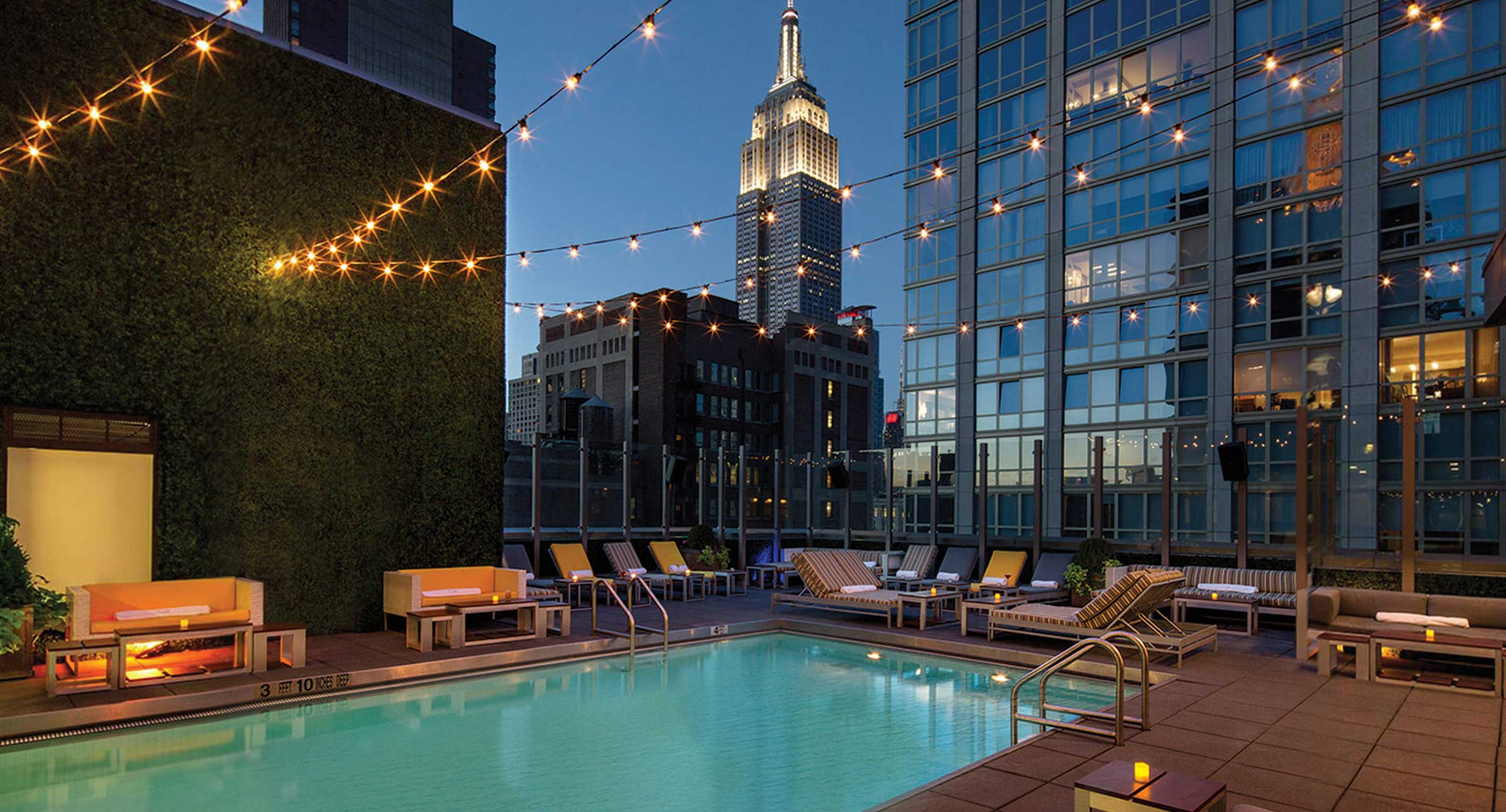
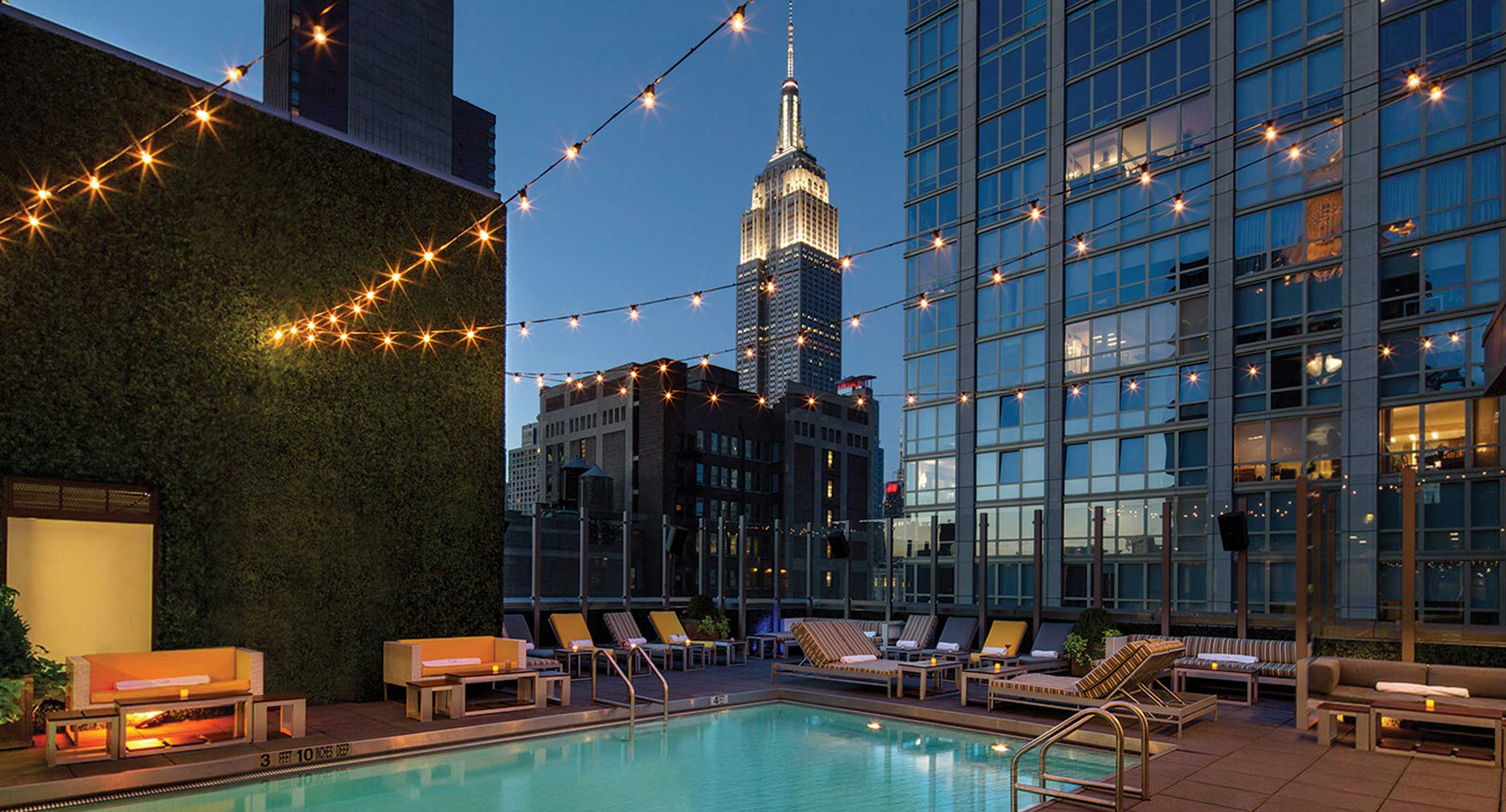
fix

diff --git a/index.html b/index.html
@@ -9,7 +9,7 @@ title: Boutique Hotels in Manhattan, NYC | Royalton Hotel NYC
 <section class="homepageSlider  d-flex justify-content-between">
   <div id="heroSlider" class="homeSlide carousel slide" data-ride="carousel" data-interval="6000" data-pause>
     <div class="carousel-inner" role="listbox">
-      <div class="carousel-item active" style="background-image: url('/assets/images/home/heroSlider/city.jpg');"> 
+      <div class="carousel-item active" style="background-image: url('/assets/images/home/heroSlider/terrace-pool.jpg');"> 
         <!-- <div class="bg-overlay"></div> -->
         <div class="carousel-caption text-left  d-md-block">
           <h4>high style, luxury and comfort all in one</h4>
